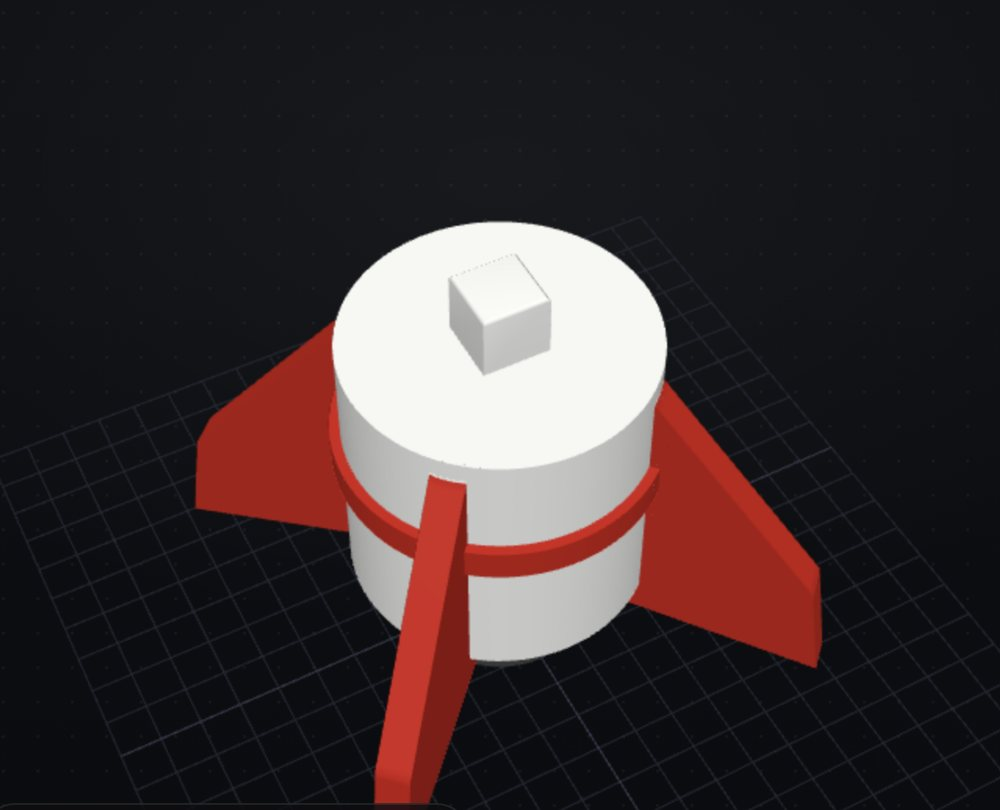
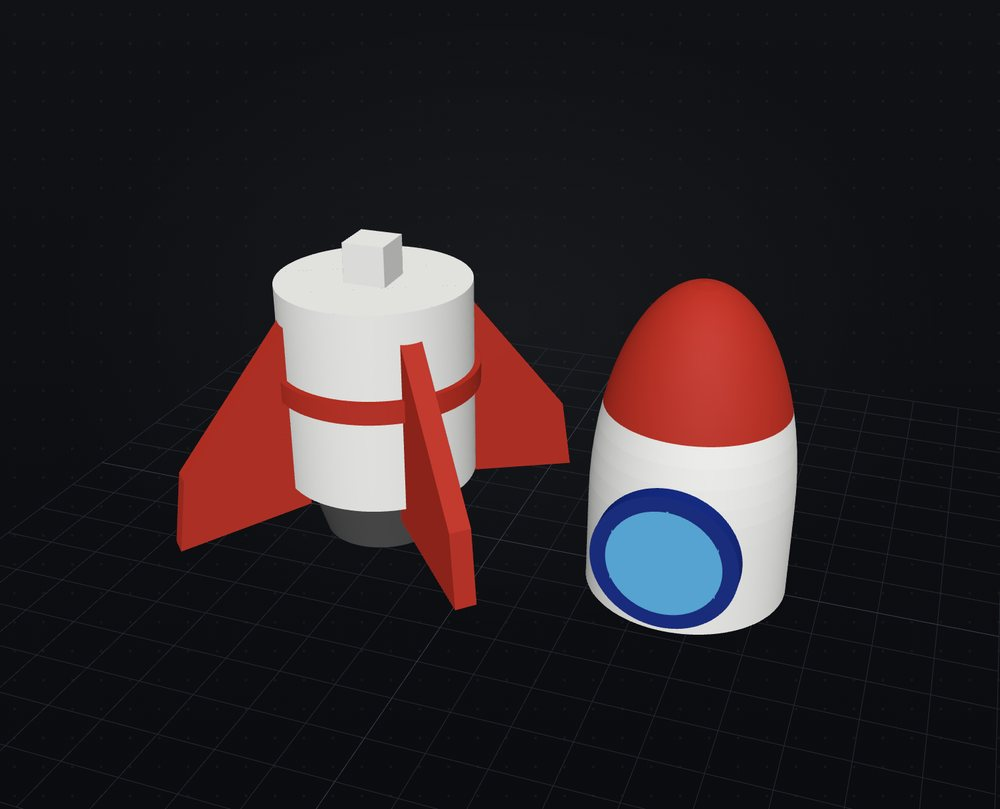
Landing: painted lighthouse in the hero, whole cut rocket in the cut tile (v0.5.5) (#46)
* Landing page at /, editor at /editor (v0.5.0)

- New landing page (app/index.html, src/landing.ts, src/landing.css) based on the approved v9 mockup: EN/SK, drop zone that opens the model in the editor, #3DBenchy sample link, FAQ, privacy, feedback.
- Editor moved to app/editor.html, served at /editor (.htaccess rewrite, dev/preview middleware). /editor?sample=benchy opens the sample, /editor?open=drop opens the file dropped on the landing page (handed over through IndexedDB).
- Editor: tooltips for B/E/F/S/V and X/Y/Z, "Cut parts" tab with an icon, phone/tablet notice, texts name Bambu Studio, OrcaSlicer and PrusaSlicer.
- 3MF export also writes slic3rpe:mmu_segmentation so PrusaSlicer reads the colours.
- Anonymous counts: /api/hit.php (upload, export), /api/count.php, /api/stats.php. No IPs, no cookies, no file data.
- Hidden export counter (COUNTER_MIN) and desktop sign-up switch in src/site-config.ts.
- SEO: meta, Open Graph image, schema.org SoftwareApplication (price 0), robots.txt, sitemap.xml.
- Self-hosted fonts (Archivo, Geist, Geist Mono).

Claude-Session: https://claude.ai/code/session_015thdPVs6qyhi56jzz38Mqk

* Landing page: English only, fix the before/after colours (v0.5.1)

- The coloured Benchy in section 02 never loaded: it had loading="lazy" but starts fully clipped, so the browser never saw it as visible. Both wipe images now load normally.
- The landing page is English only: EN/SK switch and Slovak texts removed.
[…]

Changed region(s): [[0.155, 0.2472, 0.837, 1.0]]

diff --git a/app/index.html b/app/index.html
@@ -72,13 +72,17 @@
           <p class="counter" id="counter" hidden></p>
         </div>
         <figure class="stage">
-          <img src="img/cactus-hero.jpg" alt="A potted cactus painted green, terracotta, pink and yellow in the STLware editor" width="1200" height="1105" fetchpriority="high" />
+          <img src="img/lighthouse-hero.jpg" alt="A lighthouse on a rocky island with a keeper's house, painted in eight colors in the STLware editor" width="1200" height="1200" fetchpriority="high" />
           <div class="ams" aria-label="Filament slots used in this model">
             <b>Filament slots</b>
-            <span class="slot"><i style="--c:#2e8b47"></i><span>1 · Green</span></span>
-            <span class="slot"><i style="--c:#b5582f"></i><span>2 · Terracotta</span></span>
-            <span class="slot"><i style="--c:#f55a74"></i><span>3 · Pink</span></span>
+            <span class="slot"><i style="--c:#c12e1f"></i><span>1 · Red</span></span>
+            <span class="slot"><i style="--c:#f4f4f1"></i><span>2 · White</span></span>
+            <span class="slot"><i style="--c:#26282c"></i><span>3 · Black</span></span>
             <span class="slot"><i style="--c:#f4d53f"></i><span>4 · Yellow</span></span>
+            <span class="slot"><i style="--c:#5eb5e8"></i><span>5 · Sky blue</span></span>
+            <span class="slot"><i style="--c:#e9d8b4"></i><span>6 · Cream</span></span>
+            <span class="slot"><i style="--c:#4c9a3f"></i><span>7 · Grass green</span></span>
+            <span class="slot"><i style="--c:#6b6e73"></i><span>8 · Rock gray</span></span>
           </div>
         </figure>
       </div>
@@ -185,7 +189,7 @@
             <p style="color:var(--muted)">Drag a cutting plane through the model. STLware adds square pegs on one side and matching holes on the other, with your tolerance, so the parts snap back together.</p>
             <div class="chips"><span class="chip">cutting plane</span><span class="chip">pegs + holes</span><span class="chip">0.2 mm tolerance</span><span class="chip">parts as ZIP</span></div>
           </div>
-          <img src="img/rocket-cut.jpg" alt="A rocket cut in two: the lower part with a square peg on the cut face" width="1000" height="810" loading="lazy" />
+          <img src="img/rocket-cut.jpg" alt="A rocket cut in two: the lower part with a square peg, the nose part with the matching socket" width="1000" height="809" loading="lazy" />
         </article>
       </div>
     </div>

diff --git a/src/landing.css b/src/landing.css
@@ -99,7 +99,7 @@ p { margin: 0; }
 
 .stage { position: relative; margin: 0; border-radius: 22px; overflow: hidden; border: 1px solid var(--line); background: #0b0c0f; }
 .stage img { width: 100%; height: auto; }
-.ams { position: absolute; left: 16px; bottom: 16px; display: grid; gap: 6px; padding: 12px 14px; border-radius: 14px; background: rgba(13,14,17,.82); backdrop-filter: blur(10px); -webkit-backdrop-filter: blur(10px); border: 1px solid var(--line); font: 12px var(--mono); color: #c3c8d1; }
+.ams { position: absolute; left: 16px; top: 16px; display: grid; gap: 6px; padding: 12px 14px; border-radius: 14px; background: rgba(13,14,17,.82); backdrop-filter: blur(10px); -webkit-backdrop-filter: blur(10px); border: 1px solid var(--line); font: 12px var(--mono); color: #c3c8d1; }
 .ams b { font-weight: 500; color: var(--muted); letter-spacing: .06em; text-transform: uppercase; font-size: 11px; margin-bottom: 2px; }
 .slot { display: flex; align-items: center; gap: 10px; }
 .slot i { width: 12px; height: 12px; border-radius: 4px; background: var(--c); box-shadow: inset 0 -2px 0 rgba(0,0,0,.25); }
